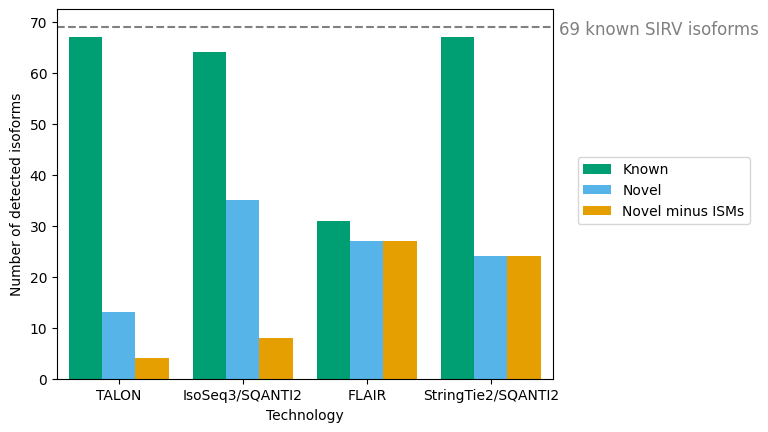
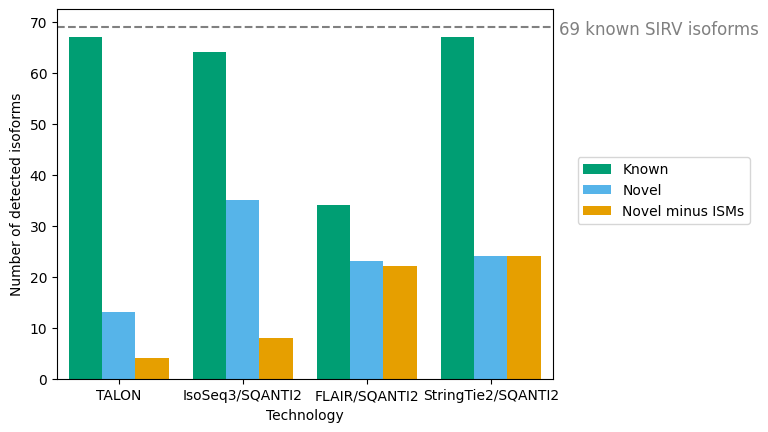
updated numbers

Changed region(s): [[0.4375, 0.5417, 0.5625, 0.6319], [0.4062, 0.9028, 0.5625, 0.9329], [0.4062, 0.4514, 0.4688, 0.5116]]

diff --git a/compare_to_FLAIR/format_flair_matrix_like_talon.py b/compare_to_FLAIR/format_flair_matrix_like_talon.py
@@ -34,12 +34,12 @@ with open(infile, 'r') as f:
             entry["counts"] = line[1:]
 
             # Determine novelty
-            if "ENSG" in gene_ID:
+            if "ENSG" in gene_ID and '-' not in gene_ID:
                 entry["gene_novelty"] = "Known"
             else:
                 entry["gene_novelty"] = "Novel"
 
-            if "ENST" in transcript_ID:
+            if "ENST" in transcript_ID and '-' not in transcript_ID:
                 entry["transcript_novelty"] = "Known"
             else:
                 entry["transcript_novelty"] = "Novel"
